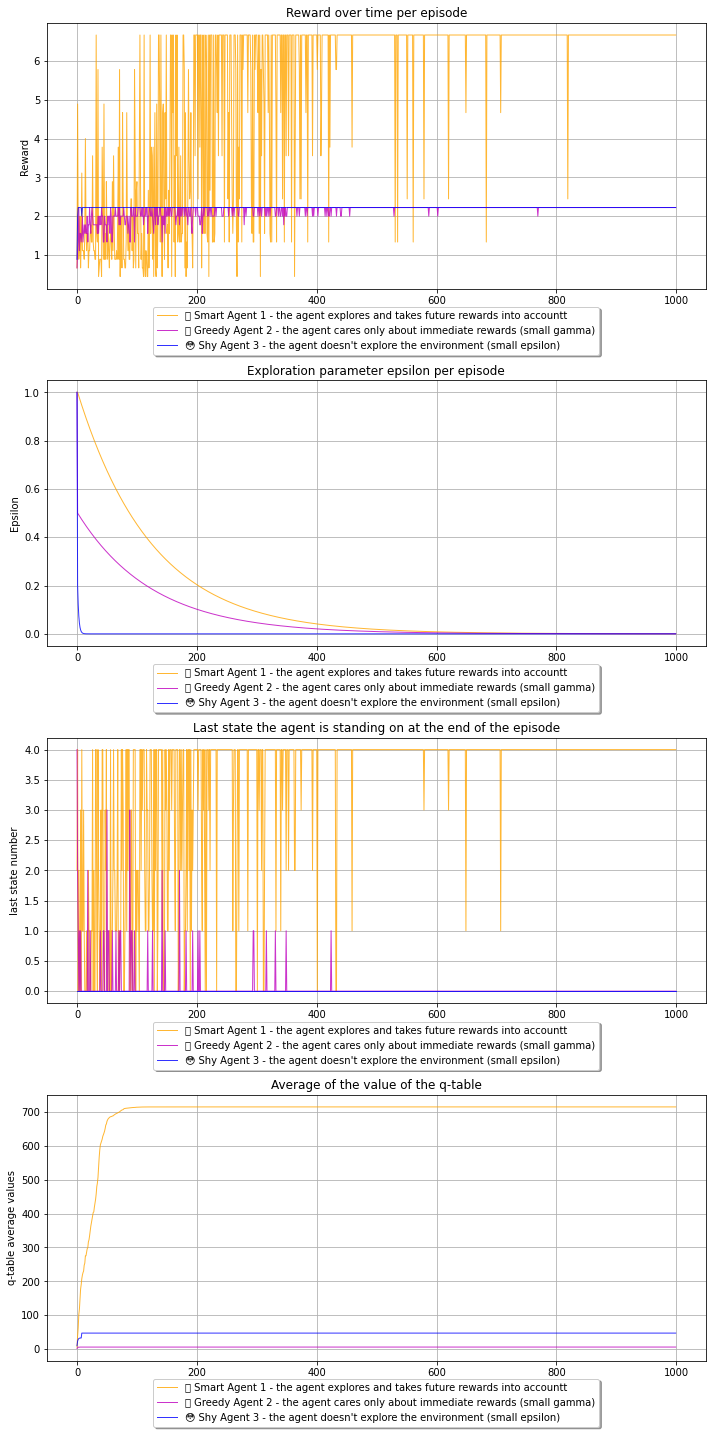
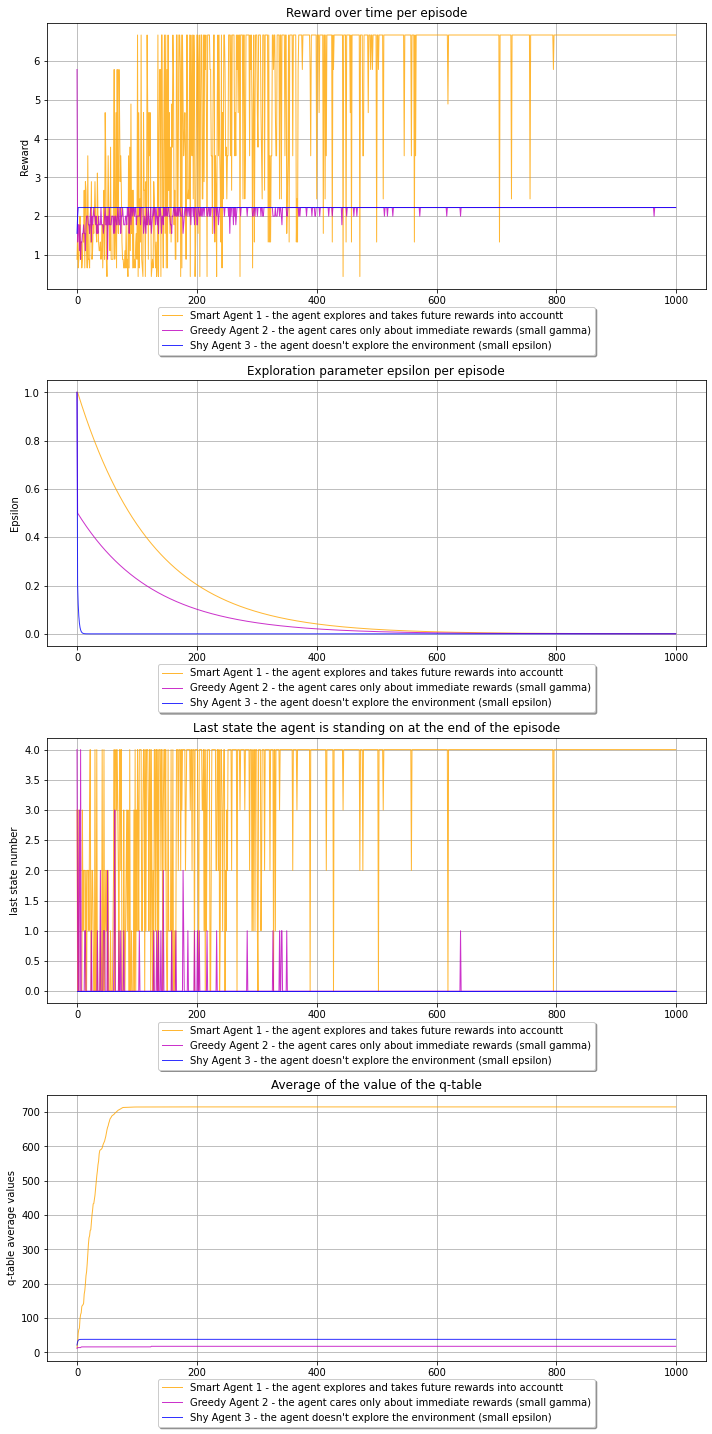
update new markdown version

diff --git a/q_learning_notebook.md b/q_learning_notebook.md
@@ -47,11 +47,11 @@ Let different q-learning agents play the N-Chain evironment and see how the choo
 ```
 
     Requirement already satisfied: gym==0.13.1 in c:\users\maurol\anaconda3\envs\nchain_env\lib\site-packages (0.13.1)
-    Requirement already satisfied: scipy in c:\users\maurol\anaconda3\envs\nchain_env\lib\site-packages (from gym==0.13.1) (1.8.0)
+    Requirement already satisfied: numpy>=1.10.4 in c:\users\maurol\anaconda3\envs\nchain_env\lib\site-packages (from gym==0.13.1) (1.22.3)
+    Requirement already satisfied: pyglet<=1.3.2,>=1.2.0 in c:\users\maurol\anaconda3\envs\nchain_env\lib\site-packages (from gym==0.13.1) (1.3.2)
     Requirement already satisfied: cloudpickle~=1.2.0 in c:\users\maurol\anaconda3\envs\nchain_env\lib\site-packages (from gym==0.13.1) (1.2.2)
     Requirement already satisfied: six in c:\users\maurol\anaconda3\envs\nchain_env\lib\site-packages (from gym==0.13.1) (1.16.0)
-    Requirement already satisfied: pyglet<=1.3.2,>=1.2.0 in c:\users\maurol\anaconda3\envs\nchain_env\lib\site-packages (from gym==0.13.1) (1.3.2)
-    Requirement already satisfied: numpy>=1.10.4 in c:\users\maurol\anaconda3\envs\nchain_env\lib\site-packages (from gym==0.13.1) (1.22.3)
+    Requirement already satisfied: scipy in c:\users\maurol\anaconda3\envs\nchain_env\lib\site-packages (from gym==0.13.1) (1.8.0)
     Requirement already satisfied: future in c:\users\maurol\anaconda3\envs\nchain_env\lib\site-packages (from pyglet<=1.3.2,>=1.2.0->gym==0.13.1) (0.18.2)
     
 
@@ -87,7 +87,7 @@ env = gym.make('NChain-v0')
 
 
 
-    [1, 1, 0, 0, 1, 0, 1, 0, 0, 0]
+    [1, 0, 1, 0, 0, 1, 1, 0, 1, 1]
 
 
 
@@ -123,6 +123,7 @@ class Qagent(object):
         self.color = color
 
         self.action_size = action_size
+        self.state_size = state_size
         self.qtable = np.zeros((state_size, action_size))
 
         self.learning_rate = learning_parameters["learning_rate"]
@@ -187,11 +188,10 @@ class Qagent(object):
     def __str__(self) -> None:
         """_summary_
         """
-
-        headers = []
-        showindex=True
+        headers = [f"Action {action}" for action in range(self.action_size)]
+        showindex = [f"State {state}" for state in range(self.state_size)]
         # Generate the table in fancy format.
-        table = tabulate(self.qtable, headers=headers, showindex=showindex, tablefmt="github")
+        table = tabulate(self.qtable, headers=headers, showindex=showindex, tablefmt="fancy_grid")
         return table
 
 ```
@@ -240,7 +240,7 @@ def learn_to_play(agent: Qagent, max_game_steps: int = 10, total_episodes: int =
         # reduce epsilon, for exploration-exploitation tradeoff
         agent.update_epsilon(episode)
 
-        if episode % 100 == 0:
+        if episode % 300 == 0:
             elapsed_time = round((time.time() - start), 1)
             print(f"elapsed time [sec]: {elapsed_time}, episode: {episode}")
 
@@ -264,25 +264,23 @@ max_game_steps = 10  # Set number of stepts an agent can take, before the enviro
 total_episodes = 1000  # Set total of training episodes (the number of trials a agent can do)    
 ```
 
+### Note on learning paramaters
+-  gamma = 1: we care about all future rewards equally as the current one 
+-  gamma = 0: we only care about the current reward)
+-  epsilon: smaller decay rate, more exploration
+
 ### 🤓 Smart Agent 1 - the agent explores and takes future rewards into account
 
 
 ```python
 
-name = '🤓 Smart Agent 1 - the agent explores and takes future rewards into accountt'
+name = 'Smart Agent 1 - the agent explores and takes future rewards into accountt'
 color = "orange"
 
-# gamma = 1, we care about all future rewards equally as the current one 
-# gamma = 0, we only care about the current reward)
-# smaller decay rate, more exploration
-
-# q-learning parameters
 learning_parameters = {
     'learning_rate': 0.8,
     'gamma': 0.9 
 }  
-
-# exploration-exploitation parameters
 exploration_parameters = {
     'epsilon': 1,
     'max_epsilon': 1,
@@ -295,31 +293,22 @@ q_agent_1 = learn_to_play(q_agent_1, max_game_steps=max_game_steps, total_episod
 ```
 
     elapsed time [sec]: 0.0, episode: 0
-    elapsed time [sec]: 0.1, episode: 100
-    elapsed time [sec]: 0.1, episode: 200
     elapsed time [sec]: 0.1, episode: 300
-    elapsed time [sec]: 0.1, episode: 400
-    elapsed time [sec]: 0.2, episode: 500
     elapsed time [sec]: 0.2, episode: 600
-    elapsed time [sec]: 0.2, episode: 700
-    elapsed time [sec]: 0.3, episode: 800
-    elapsed time [sec]: 0.3, episode: 900
+    elapsed time [sec]: 0.2, episode: 900
     
 
 ### 🤑 Greedy Agent 2 - the agent cares only about immediate rewards (small gamma)
 
 
 ```python
-name = '🤑 Greedy Agent 2 - the agent cares only about immediate rewards (small gamma)'
+name = 'Greedy Agent 2 - the agent cares only about immediate rewards (small gamma)'
 color =  "m"
 
-# q-learning parameters
 learning_parameters = {
     'learning_rate': 0.8,
     'gamma': 0.01
 }   
-
-# exploration-exploitation parameters
 exploration_parameters = {
     'epsilon': 1,
     'max_epsilon': 0.5,
@@ -333,31 +322,22 @@ q_agent_2 = learn_to_play(q_agent_2, max_game_steps=max_game_steps, total_episod
 ```
 
     elapsed time [sec]: 0.0, episode: 0
-    elapsed time [sec]: 0.1, episode: 100
-    elapsed time [sec]: 0.1, episode: 200
     elapsed time [sec]: 0.1, episode: 300
-    elapsed time [sec]: 0.2, episode: 400
-    elapsed time [sec]: 0.2, episode: 500
-    elapsed time [sec]: 0.2, episode: 600
-    elapsed time [sec]: 0.3, episode: 700
-    elapsed time [sec]: 0.4, episode: 800
-    elapsed time [sec]: 0.4, episode: 900
+    elapsed time [sec]: 0.1, episode: 600
+    elapsed time [sec]: 0.2, episode: 900
     
 
 ### 😳 Shy Agent 3 - the agent doesn't explore the environment (small epsilon)
 
 
 ```python
-name = "😳 Shy Agent 3 - the agent doesn't explore the environment (small epsilon)"
+name = "Shy Agent 3 - the agent doesn't explore the environment (small epsilon)"
 color = "b"
 
-# q-learning parameters
 learning_parameters = {
     'learning_rate': 0.8,
     'gamma': 0.9
 } 
-
-# exploration-exploitation parameters
 exploration_parameters = {
     'epsilon': 1,
     'max_epsilon': 0.2,
@@ -370,25 +350,15 @@ q_agent_3 = learn_to_play(q_agent_3, max_game_steps=max_game_steps, total_episod
 ```
 
     elapsed time [sec]: 0.0, episode: 0
-    elapsed time [sec]: 0.1, episode: 100
-    elapsed time [sec]: 0.1, episode: 200
-    elapsed time [sec]: 0.2, episode: 300
-    elapsed time [sec]: 0.2, episode: 400
-    elapsed time [sec]: 0.2, episode: 500
-    elapsed time [sec]: 0.3, episode: 600
-    elapsed time [sec]: 0.3, episode: 700
-    elapsed time [sec]: 0.3, episode: 800
-    elapsed time [sec]: 0.4, episode: 900
+    elapsed time [sec]: 0.1, episode: 300
+    elapsed time [sec]: 0.2, episode: 600
+    elapsed time [sec]: 0.2, episode: 900
     
 
 
 ```python
 from visualize_plays import VisualizePlays
-```
-
-
-```python
-# visualize the different set of parameters
+# visualize the different agents
 plays = VisualizePlays(q_agent_1, q_agent_2, q_agent_3)
 plays.plot()
 ```
@@ -399,52 +369,85 @@ plays.plot()
     
 
 
-* y-axis: state 0 to state 4
-* x-axis: action 0 and action 1
-* action 0 = move forward, but get no reward (in the last state get large reward)
-* action 1 = move backward to state 0, get small reward
-
 ## Investigating the q-table values
 higher values mean higher future rewards for this specific action-state pair
 
 
 ```python
-print(f'Agent 1: {q_agent_1}')
-print(f'Agent 2: {q_agent_2}')
-print(f'Agent 3: {q_agent_3}')
+print(f'Agent 1:\n{q_agent_1}')
 ```
 
-    |---|--------|--------|
-    | 0 |  65.61 | 61.049 |
-    | 1 |  72.9  | 61.049 |
-    | 2 |  81    | 61.049 |
-    | 3 |  90    | 61.049 |
-    | 4 | 100    | 61.049 |
+    Agent 1:
+    ╒═════════╤════════════╤════════════╕
+    │         │   Action 0 │   Action 1 │
+    ╞═════════╪════════════╪════════════╡
+    │ State 0 │      65.61 │     61.049 │
+    ├─────────┼────────────┼────────────┤
+    │ State 1 │      72.9  │     61.049 │
+    ├─────────┼────────────┼────────────┤
+    │ State 2 │      81    │     61.049 │
+    ├─────────┼────────────┼────────────┤
+    │ State 3 │      90    │     61.049 │
+    ├─────────┼────────────┼────────────┤
+    │ State 4 │     100    │     61.049 │
+    ╘═════════╧════════════╧════════════╛
     
-
-
-    ---------------------------------------------------------------------------
-
-    TypeError                                 Traceback (most recent call last)
-
-    c:\Users\maurol\OneDrive\Dokumente\Python_Scripts\Q-Learning-Demo-Notebook\q_learning_notebook.ipynb Cell 22' in <cell line: 1>()
-    ----> <a href='vscode-notebook-cell:/c%3A/Users/maurol/OneDrive/Dokumente/Python_Scripts/Q-Learning-Demo-Notebook/q_learning_notebook.ipynb#ch0000019?line=0'>1</a> print(f'Agent 1: {q_agent_1}')
-          <a href='vscode-notebook-cell:/c%3A/Users/maurol/OneDrive/Dokumente/Python_Scripts/Q-Learning-Demo-Notebook/q_learning_notebook.ipynb#ch0000019?line=1'>2</a> print(f'Agent 2: {q_agent_2}')
-          <a href='vscode-notebook-cell:/c%3A/Users/maurol/OneDrive/Dokumente/Python_Scripts/Q-Learning-Demo-Notebook/q_learning_notebook.ipynb#ch0000019?line=2'>3</a> print(f'Agent 3: {q_agent_3}')
-    
-
-    TypeError: __str__ returned non-string (type NoneType)
-
 
 The q-table of case1 should have similar values like the following table:
 
-|    ----   | Action 0  | Action 1 | 
+|       | Action 0  | Action 1 | 
 | ------------- | ------------- | ------------- |
-| state 0 | 65.61  | 61.049  |
-| state 1 | 72.9  | 61.049  |
-| state 2 | 81.  | 61.049  |
-| state 3 | 90.  | 61.049  |
-| state 4 | 100.  | 61.049  |
+| State 0 | 65.61  | 61.049  |
+| State 1 | 72.9  | 61.049  |
+| State 2 | 81.  | 61.049  |
+| State 3 | 90.  | 61.049  |
+| State 4 | 100.  | 61.049  |
+
+Legend:
+- Action 0 = move forward, but get no reward (in the last state get large reward)
+- Action 1 = move backward to state 0, get small reward
+
+
+```python
+print(f'Agent 2:\n{q_agent_2}')
+```
+
+    Agent 2:
+    ╒═════════╤══════════════╤════════════╕
+    │         │     Action 0 │   Action 1 │
+    ╞═════════╪══════════════╪════════════╡
+    │ State 0 │  0.020202    │    2.0202  │
+    ├─────────┼──────────────┼────────────┤
+    │ State 1 │  0.020202    │    2.0202  │
+    ├─────────┼──────────────┼────────────┤
+    │ State 2 │  0.000775456 │    2.0202  │
+    ├─────────┼──────────────┼────────────┤
+    │ State 3 │  0.0807766   │    1.61616 │
+    ├─────────┼──────────────┼────────────┤
+    │ State 4 │ 10.0971      │    0       │
+    ╘═════════╧══════════════╧════════════╛
+    
+
+
+```python
+print(f'Agent 3:\n{q_agent_3}')
+```
+
+    Agent 3:
+    ╒═════════╤════════════╤════════════╕
+    │         │   Action 0 │   Action 1 │
+    ╞═════════╪════════════╪════════════╡
+    │ State 0 │    4.13588 │   20       │
+    ├─────────┼────────────┼────────────┤
+    │ State 1 │    0       │    7.4666  │
+    ├─────────┼────────────┼────────────┤
+    │ State 2 │    0       │    6.50923 │
+    ├─────────┼────────────┼────────────┤
+    │ State 3 │    0       │    0       │
+    ├─────────┼────────────┼────────────┤
+    │ State 4 │    0       │    0       │
+    ╘═════════╧════════════╧════════════╛
+    
 
 
 ```python
